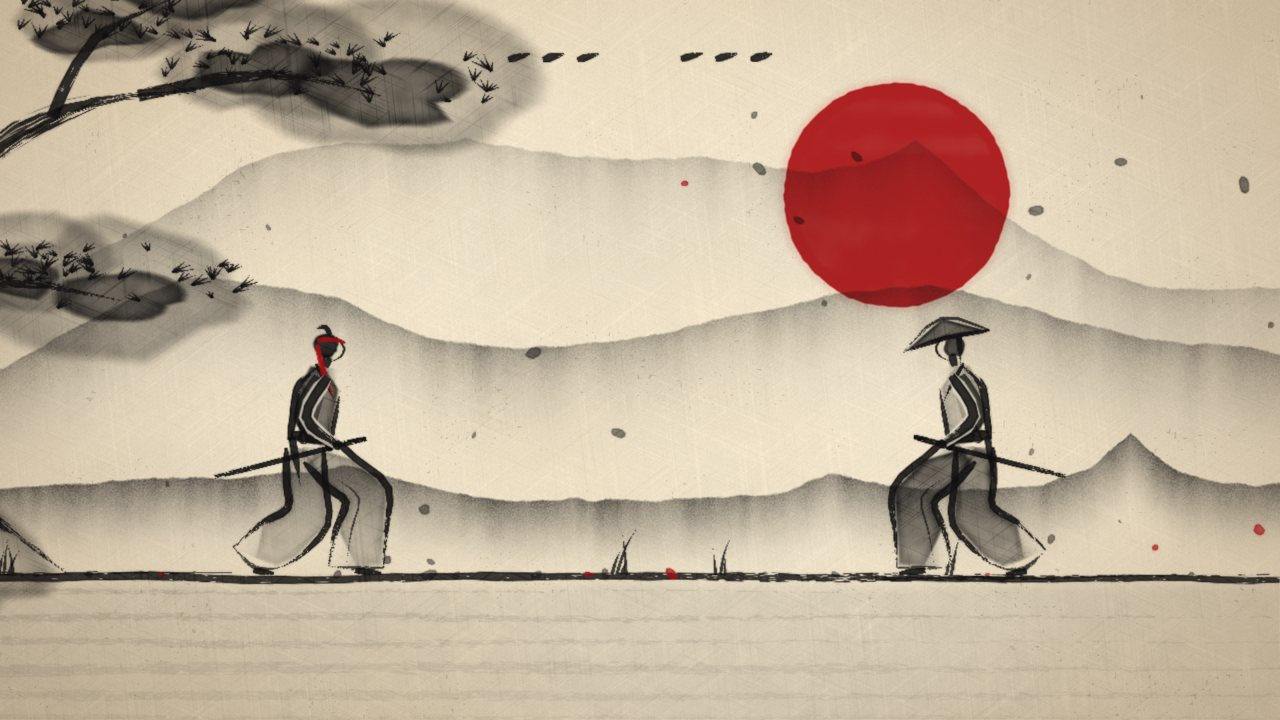
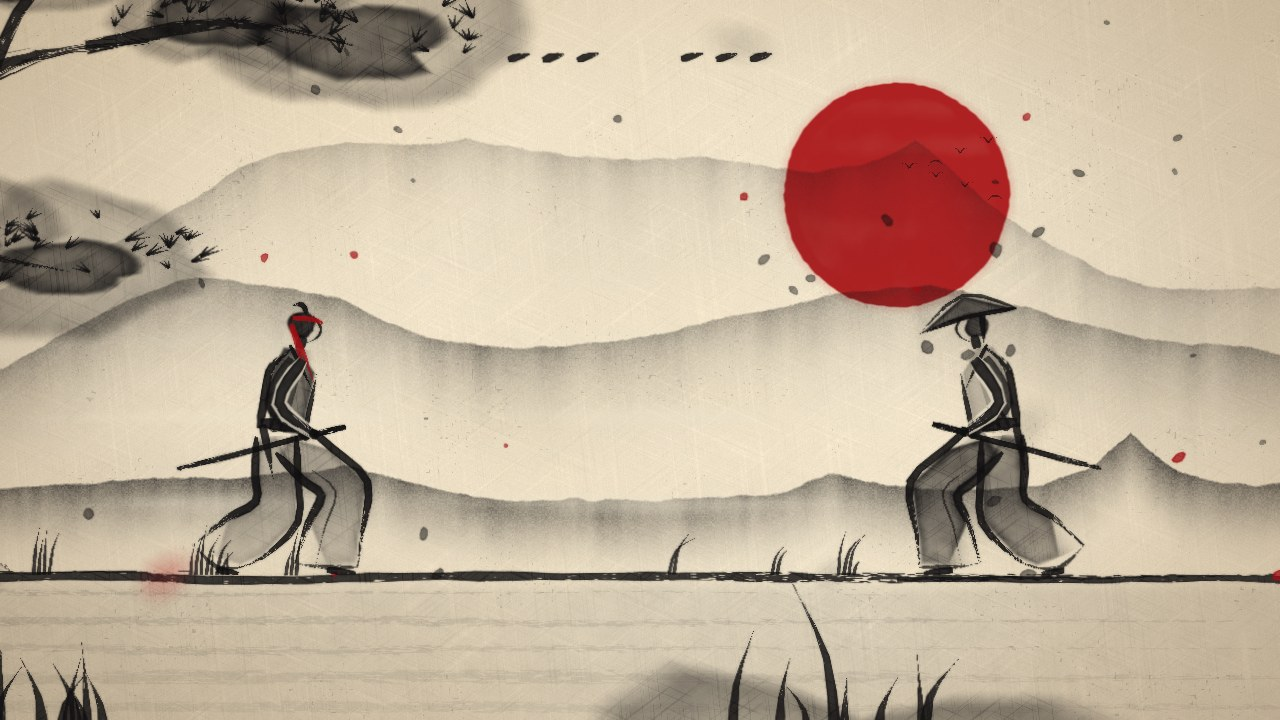
Seal clears the sun; refresh screenshots and add a kill clip
Claude-Session: https://claude.ai/code/session_01YV49wPyqGGaJoqJfqqXyo4

diff --git a/src/main.ts b/src/main.ts
@@ -137,7 +137,7 @@ async function boot() {
       const p = toScreen(at.x, at.y);
       splash.trigger(p.x + dir * camScale * 0.25, p.y - camScale * 0.1, camScale * 0.42, dir);
       cut.trigger(p.x, p.y, W, H, dir, camScale * 0.12);
-      sealX = portraitNow() ? 0.5 : dir > 0 ? 0.15 : 0.85;
+      sealX = portraitNow() ? 0.5 : dir > 0 ? 0.12 : 0.9;
       grass.shove(1);
     },
     seal() {

diff --git a/README.md b/README.md
@@ -3,6 +3,8 @@
 A one-on-one samurai duel painted in living sumi-e ink. One demo fight, built
 to look and move like a brush painting that breathes.
 
+![A killing blow, the brush cut and the seal](docs/kill.webp)
+
 - **Vite + TypeScript + PixiJS 8 (WebGL)**, installable PWA, deploys to Vercel as-is.
 - **Everything is procedural.** Rice paper, ink-wash mountains and the red sun are
   fragment shaders baked once per resize. Fighters, slashes, splashes and petals are
@@ -12,7 +14,9 @@ to look and move like a brush painting that breathes.
 - **Procedural animation.** Moves are pose targets on a timeline; springs chase them,
   which gives anticipation, follow-through and settle. Arms and legs are solved with
   two-bone IK onto the grip and planted feet, and sashes, sleeves and the hachimaki
-  ride on verlet ropes in the wind.
+  ride on verlet ropes in the wind. Hits, clashes and parries shove those springs
+  directly, fighters breathe and shift their weight while they wait, and blades
+  leave a dry smear behind fast cuts.
 - **Sound** is pure Web Audio: wind, paper rustle, taiko, ringing steel, and a
   shakuhachi phrase in the miyako-bushi mode during the standoff.
 
